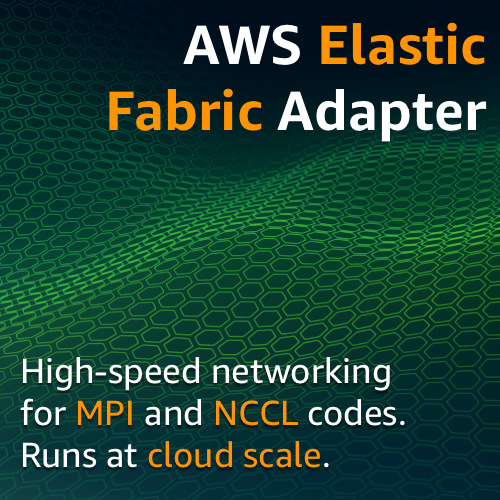
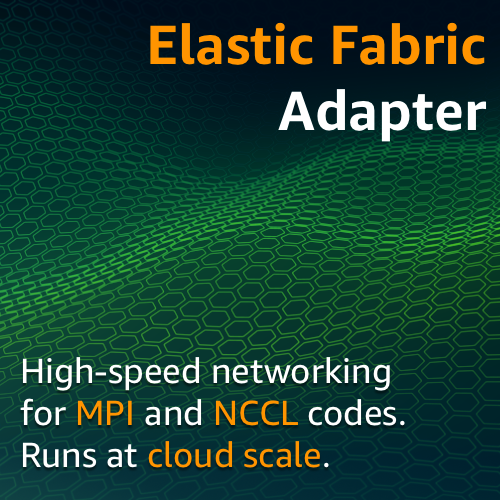
Shrunk menus. Fixed AWS EFA brandling glitch ... almost

Changed region(s): [[0.3, 0.03, 0.9, 0.15], [0.21, 0.18, 0.54, 0.27], [0.57, 0.18, 0.69, 0.27]]

diff --git a/content/english/post/about.md b/content/english/post/about.md
@@ -16,9 +16,9 @@ images:
 
 # Welcome to Day 1
 
-Welcome to **[day1hpc.com](http://day1hpc.com/)** - a community site built and curated by the **Developer Relations team in HPC Engineering at AWS**. Our job is to be the interface between our HPC engineering teams and the people in the HPC community who want to use AWS to create ***powerful*** tools for solving ***hard*** problems.
+Welcome to **[day1hpc.com](http://day1hpc.com/)** - a community site built and curated by the **Developer Advocates from HPC Engineering at AWS**. Our job is to be the interface between our HPC engineering teams and the people in the HPC community who want to use AWS to create ***powerful*** tools for solving ***hard*** problems.
 
-To do that, we'll spend a lot of our time explaining how these services work, and getting your feedback so we can improve them, continuously. You’ll find a lot of things on this site to help you understand AWS a little better, all with the aim of getting you where to want to go, faster.
+To do that, we spend a lot of our time explaining how these services work, and getting your feedback so we can improve them, continuously. You’ll find a lot of things on this site to help you understand AWS a little better, all with the aim of getting you where to want to go, faster.
 
 ## We called the site Day1Hpc for a couple of reasons.
 
@@ -26,7 +26,7 @@ To do that, we'll spend a lot of our time explaining how these services work, an
 
 **The other reason** is that *it's still Day 1 for HPC in the cloud*. We see endless possibilities to improve the productivity of every scientist or engineer who uses HPC as a tool in their exploration. And we're optimistic about where that's going to lead us all.
 
-If you see any of us at a conference, please say ‘hi’ and let us know how we can help.
+If you see any of us at a conference, please say ‘hi’ and let us know how we can help. [We'll be at SC'22](https://pages.awscloud.com/SC-2022.html) in Dallas - maybe you'll see us there.
 
 You can find us on Twitter at **[@TechHpc](https://twitter.com/TechHpc)**, on YouTube in the **[HPC Tech Shorts Channel](https://hpc.news/techshorts)**, or blogging to the world from the **[AWS HPC Blog Channel](https://hpc.news/blog)**. Please reach out and let us know what you’re finding hard, or easy.
 
@@ -37,9 +37,9 @@ You can find us on Twitter at **[@TechHpc](https://twitter.com/TechHpc)**, on Yo
 
 ----
 
-## We're hiring
+## We're hiring soon
 
-So if you want to know what it's like to work in our engineering teams, take it from the people who are alreasy here ...
+So if you want to know what it's like to work in our engineering teams, take it from the people who are already here ...
 
 <iframe width="560" height="315" src="https://www.youtube.com/embed/jEN5be7krDY" title="YouTube video player" frameborder="0" allow="accelerometer; autoplay; clipboard-write; encrypted-media; gyroscope; picture-in-picture" allowfullscreen></iframe>
 

diff --git a/content/english/efa.md b/content/english/efa.md
@@ -1,11 +1,11 @@
 ---
-title: "AWS Elastic Fabric Adapter"
+title: "Elastic Fabric Adapter"
 date: 2022-10-17
 #author
 author: "Brendan Bouffler"
 layout: "product"
 # description
-description: "AWS Elastic Fabric Adapter (EFA) is a high performance networking interface for EC2 instances that enables customers to run applications requiring high levels of inter-node communications at scale on AWS. EC2 instances that enables customers to run applications requiring high levels of inter-node communications at scale on AWS."
+description: "Elastic Fabric Adapter (EFA) is a high performance networking interface for EC2 instances that enables customers to run applications requiring high levels of inter-node communications at scale on AWS. EC2 instances that enables customers to run applications requiring high levels of inter-node communications at scale on AWS."
 images:
   - "images/hpc/efa-ident-large.png"
 product_images:
@@ -22,7 +22,7 @@ type: "featured" # available type (regular or featured)
 draft: false
 ---
 
-The AWS Elastic Fabric Adapter (EFA) is a custom-built high speed network adapter built into dozens (and dozens) of Amazon EC2 instance types. It delivers the same kind of experience as you’d find on a traditional, on-premises, HPC cluster for scaling applications requiring high levels of inter-node communications on AWS.
+The Elastic Fabric Adapter (EFA) is a custom-built high speed network adapter built into dozens (and dozens) of Amazon EC2 instance types. It delivers the same kind of experience as you’d find on a traditional, on-premises, HPC cluster for scaling applications requiring high levels of inter-node communications on AWS.
 
 It's natively supported by [Intel MPI](https://www.intel.com/content/www/us/en/developer/tools/oneapi/mpi-library.html#gs.f1ru48), [Open MPI](https://www.open-mpi.org/), [MVAPICH](https://mvapich.cse.ohio-state.edu/), and [NCCL](https://developer.nvidia.com/nccl) and is available on across CPU and GPU architectures including our own [AWS Graviton processors](https://aws.amazon.com/ec2/graviton/).
 

diff --git a/content/english/about.md b/content/english/about.md
@@ -1,28 +1,1 @@
----
-title: "About Us"
-# email: "sojonatmail@gmail.com"
-# description
-description: "This is meta description"
-layout: "single-notitle"
-draft: false
-social:
-  - icon: "fab fa-twitter"
-    link: "https://twitter.com/techhpc"
-
-images:
-- "images/hpc/welcomeday1-ident-large.png"
-
----
-
-# Welcome to Day 1
-
-Welcome to **[day1hpc.com](http://day1hpc.com/)** - a community site built and curated by the **Developer Relations team in HPC Engineering at AWS**. Our job is to be the interface between our HPC engineering teams and the people in the HPC community who want to use AWS to create ***powerful*** tools for solving ***hard*** problems.
-
-To do that, we'll spend a lot of our time explaining how these services work, and getting your feedback so we can improve them, continuously. You’ll find a lot of things on this site to help you understand AWS a little better, all with the aim of getting you where to want to go, faster.
-
-If you see us at a conference, please say ‘hi’ and let us know how we can help.
-
-You can find us on Twitter at [@TechHpc](https://twitter.com/TechHpc), on YouTube in the [HPC Tech Shorts Channel](https://hpc.news/techshorts), or blogging to the world from the [AWS HPC Blog Channel](https://hpc.news/blog). Please reach out and let us know what you’re finding hard, or easy.
-
-{{< gallery dir="images/gallery" class="" height="500" width="500" webp="true" command="" options="" zoomable="true" >}}
-<hr>
+NOT USED.

diff --git a/content/english/post/hpcblog.md b/content/english/post/hpcblog.md
@@ -5,24 +5,14 @@ date: 2019-09-26T13:29:51-05:00
 author: "Matt Vaughn"
 # description
 description: "AWS ParallelCluster is an open source tool that makes it easy to deploy and manage HPC clusters on AWS"
-layout: "single-notitle"
+layout: "single"
 images:
   - "images/post/hpcblog-ident.png"
 # Taxonomies
 categories: ["HPC Blog Channel"]
 tags: ["photo","image"]
-type: "featured" # available type (regular or featured)
+type: "regular" # available type (regular or featured)
 draft: false
 ---
 
-
-<img width="100" height="200" src="/images/post/ParallelCluster.png" style="width=100">
-
-.right {
- float: right;
- padding: 0 0 20px 20px;
-}
-
-AWS ParallelCluster is an open source tool that makes it easy to deploy and manage HPC clusters on AWS. It is available at no additional charge, and you pay only for the AWS resources needed to run your applications.
-
-
+The HPC blog channel features new articles each week - sometimes more often - covering the whole gamut of HPC in the cloud.

diff --git a/content/english/learning.md b/content/english/learning.md
@@ -55,9 +55,8 @@ Tech Shorts Foundations are videos which will help you undertsand the jargon, an
 
 ### HPC clusters and job management
 
-<a href="https://youtu.be/u1Djjv8A5Do">{{< image src="/images/tsf/tsf-what-is-pc.png" class="learn" >}}</a>
-<a href="https://youtu.be/u1Djjv8A5Do">{{< image src="/images/tsf/tsf-what-is-batch.png" class="learn" >}}</a>
-<a href="https://youtu.be/u1Djjv8A5Do">{{< image src="/images/tsf/tsf-batch-or-pc.png" class="learn" >}}</a>
+<a href="https://youtu.be/gmw7A3kOh60">{{< image src="/images/tsf/tsf-what-is-pc.png" class="learn" >}}</a>
+<a href="https://youtu.be/24tBOQDAyUA">{{< image src="/images/tsf/tsf-what-is-batch.png" class="learn" >}}</a>
 
 ---
 

diff --git a/content/english/resources.md b/content/english/resources.md
@@ -5,7 +5,7 @@ date: 2022-10-01
 author: "Matt Vaughn"
 layout: "single-notitle"
 # description
-description: "AWS Elastic Fabric Adapter (EFA) is a high performance networking interface for EC2 instances that enables customers to run applications requiring high levels of inter-node communications at scale on AWS. EC2 instances that enables customers to run applications requiring high levels of inter-node communications at scale on AWS."
+description: "Bookmarks you might find useful"
 images:
   - "images/hpc/efa-ident-large.png"
 # Taxonomies

diff --git a/content/english/post/workshops.md b/content/english/post/workshops.md
@@ -9,10 +9,10 @@ images:
 # Taxonomies
 categories: ["HPC Workshops"]
 tags: ["photo","image"]
-type: "featured" # available type (regular or featured)
+type: "regular" # available type (regular or featured)
 draft: false
 ---
 
 # HPC Workshops
 
-We build workshops that can help you, step-by-step expand your skills and solve problems more efficiently.
+We build workshops that can help you, step-by-step, expand your skills and solve problems more efficiently.
